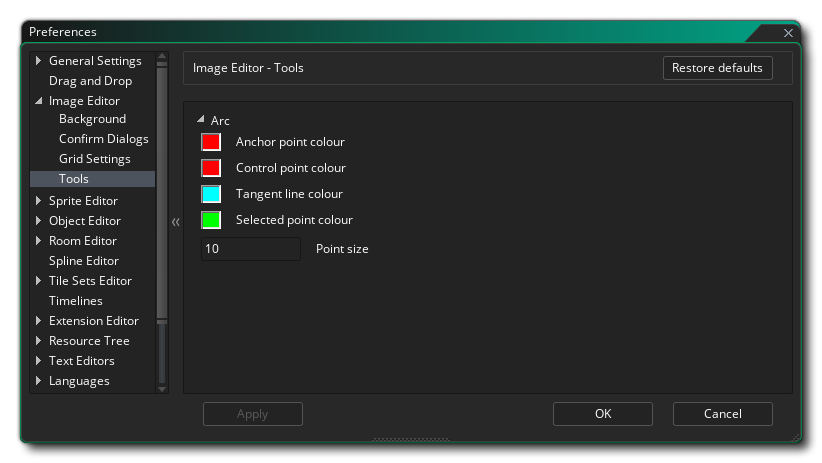
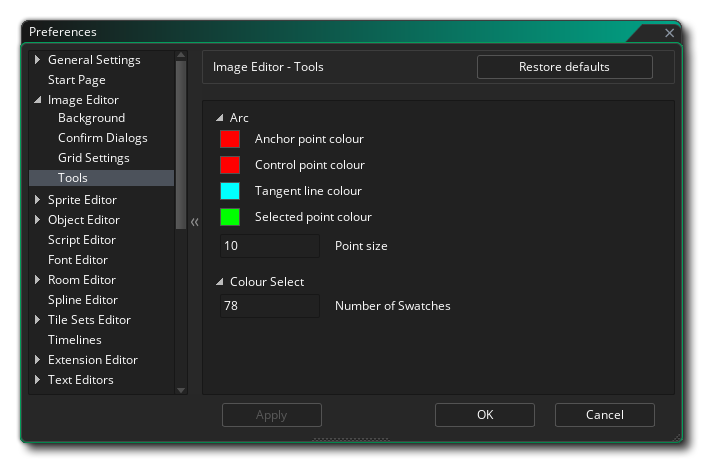
docs(general): Manual: Image Editor Preferences - Tool section missing details for color select section YoYoGames/GameMaker-Bugs#8534
Updated the screenshot and added the option

diff --git a/Manual/contents/The_Asset_Editors/Image_Editor.htm b/Manual/contents/The_Asset_Editors/Image_Editor.htm
@@ -17,7 +17,7 @@
   <h1><span data-field="title" data-format="default">The Image Editor</span></h1>
   <p><img alt="The Image Editor" class="center" src="../assets/Images/Asset_Editors/Editor_Images.png" style="cursor: nesw-resize;" />The I<strong>mage Editor </strong>is where you can create your own <a class="glossterm" data-glossterm="sprites" href="#">sprites</a> or edit those you have imported or created previously. If you have used any other image tools then this should be familiar to you but there are a few things to note when using the <span data-keyref="GameMaker Name">GameMaker</span> Image Editor which may not be immediately apparent:</p>
   <ul class="colour">
-    <li>When you create multiple frames, you can draw to them as they animate! So, if you press the play button<img alt="Play Icon" class="icon" height="24" src="../assets/Images/Icons/Icon_ImagePlay.png" width="46" /> on the <strong>Frame Control</strong> bar, and then select a brush and start to draw in the editor window, you&#39;ll see that the frames will animate in the editor and what you draw will be added to the corresponding frame in that moment. You can experiment with different frame rates until you get something you like, but once you&#39;ve got the hang of how this works you&#39;ll be creating dynamic sprites and effects in no time.</li>
+    <li>When you create multiple frames, you can draw to them as they animate! So, if you press the Play button<img alt="Play Icon" class="icon" height="24" src="../assets/Images/Icons/Icon_ImagePlay.png" width="46" /> on the <strong>Frame Control</strong> bar, and then select a brush and start to draw in the editor window, you&#39;ll see that the frames will animate in the editor and what you draw will be added to the corresponding frame in that moment. You can experiment with different frame rates until you get something you like, but once you&#39;ve got the hang of how this works you&#39;ll be creating dynamic sprites and effects in no time.</li>
     <li>You can pull the Image Editor tab off of the main workspace window into its own window. This can be handy when using multiple monitors, for example.</li>
     <li>When you use the <em>Copy </em>functions to, for example, copy a selection of an image, then the selection copied gets added to your <strong>brush list</strong>. This means that you can select a part of an image and then use it in the rest of the paint tools to draw lines, polygons or just paint freely. The brush can be scaled and blended with a colour too. Note that the <em>Paste </em>functionality is not intended for use internally within the editor as anything you copy is added to the brush list and so can be selected for &quot;pasting&quot; that way. Instead paste is simply for you to capture something from an external program and paste it into the Image Editor.</li>
     <li>You can have multiple layers for each sprite thanks to the handy <strong>layer editor</strong>. These layers can ordered and even placed in folders to make creating more complex images easier.</li>
@@ -190,8 +190,8 @@
   </div>
   <p><a class="dropspot" data-rhwidget="DropSpot" data-target="drop-down8" href="#">Layer Editor</a></p>
   <div class="droptext" data-targetname="drop-down8">
-    <p class="dropspot">You can create <strong>layers </strong>in the image editor for different parts of your image, and these layers can be manipulated and drawn to using the various brushes and tools. To create a new layer, simply click the <img alt="Add Layer Icon" class="icon" height="24" src="../assets/Images/Icons/Icon_Image_Add.png" width="24" /> icon, and to remove it again the <img alt="Remove Layer Icon" class="icon" height="24" src="../assets/Images/Icons/Icon_Image_Remove.png" width="24" /> icon. Layers can also be ordered by clicking <img alt="LMB Icon" class="icon" height="24" src="../assets/Images/Icons/Icon_LMB.png" width="21" /> on a layer and then dragging the layer up or down to the position you require, and you can further organise the layers by creating folders using the <img alt="Add Layer Folder Icon" class="icon" height="24" src="../assets/Images/Icons/Icon_Image_Folder.png" width="24" /> button and then dragging layers into them.</p>
-    <p class="dropspot">If you double click <img alt="LMB Icon" class="icon" height="24" src="../assets/Images/Icons/Icon_LMB.png" width="21" /> on a layer (or use <img alt="RMB Icon" class="icon" height="24" src="../assets/Images/Icons/Icon_RMB.png" width="21" /> and select <strong>Edit Layer Properties</strong>) you&#39;ll get access to the Layer Properties window:</p>
+    <p class="dropspot">You can create <strong>layers </strong>in the Image Editor for different parts of your image, and these layers can be manipulated and drawn to using the various brushes and tools. To create a new layer, simply click the <img alt="Add Layer Icon" class="icon" height="24" src="../assets/Images/Icons/Icon_Image_Add.png" width="24" /> icon, and to remove it again the <img alt="Remove Layer Icon" class="icon" height="24" src="../assets/Images/Icons/Icon_Image_Remove.png" width="24" /> icon. Layers can also be ordered by clicking <img alt="LMB Icon" class="icon" height="24" src="../assets/Images/Icons/Icon_LMB.png" width="21" /> on a layer and then dragging the layer up or down to the position you require, and you can further organise the layers by creating folders using the <img alt="Add Layer Folder Icon" class="icon" height="24" src="../assets/Images/Icons/Icon_Image_Folder.png" width="24" /> button and then dragging layers into them.</p>
+    <p class="dropspot">If you double-click <img alt="LMB Icon" class="icon" height="24" src="../assets/Images/Icons/Icon_LMB.png" width="21" /> on a layer (or use <img alt="RMB Icon" class="icon" height="24" src="../assets/Images/Icons/Icon_RMB.png" width="21" /> and select <strong>Edit Layer Properties</strong>) you&#39;ll get access to the Layer Properties window:</p>
     <p class="dropspot"><img alt="Image Editor Layer Properties" class="center" src="../assets/Images/Asset_Editors/Editor_LayerProperties.png" />Here you can name the layer as well as set the blend mode (the way that it should be &quot;mixed&quot; with the layers beneath), choosing from <em>normal</em>, <em>additive</em>, <em>subtractive </em>or <em>multiply </em>blends. Finally you can set the opacity (transparency) of the layer with a slider, but note that this is cumulative with the actual alpha value of individual pixels - for example, if you have pixels that are 50% opaque and set the layer opacity to 50%, the final pixels will be drawn at 25% opacity.</p>
     <p class="dropspot">You can also paste from your clipboard (<img alt="Control Icon" class="icon" height="20" src="../assets/Images/Icons/Icon_Ctrl.png" width="55" /> / <img alt="CMD Icon" class="icon" height="20" src="../assets/Images/Icons/Icon_Cmd.png" width="55" /> + &quot;<span class="inline">V</span>&quot;) to create a new layer, which can be enabled/disabled in the <a data-xref="{title}" href="../Setting_Up_And_Version_Information/IDE_Preferences/Image_Editor_Preferences.htm">Image Editor Preferences</a> (see &quot;<strong>Image Selection Copy/Paste</strong>&quot;).</p>
   </div>
@@ -241,7 +241,7 @@
   <div class="droptext" data-targetname="drop-down10">
     <p class="dropspot"><img alt="Image Editor Views Menu" class="center" src="../assets/Images/Asset_Editors/Editor_MenuView.png" />The View menu has the following options:</p>
     <ul class="dropspotlist">
-      <li class="dropspot"><strong>1:1</strong> - Scale the image to be 1:1 with the resolution (ie: actual size) and center it in the image edit window.</li>
+      <li class="dropspot"><strong>1:1</strong> - Scale the image to be 1:1 with the resolution (i.e.: actual size) and center it in the image edit window.</li>
       <li class="dropspot"><strong>Fit Screen</strong> - Scale the image to fill the image edit window.</li>
       <li class="dropspot"><strong>Show grid</strong> - Toggle the pixel grid. This is the same as the grid button found in the Canvas Controls (explained further up this page).</li>
       <li class="dropspot"><strong>Onion Skin Settings</strong> - Change the onion skin settings. This will open the following window where you can set the frames shown by the onion skin button, as well as the opacity and colour of the skinned frames.<br />

diff --git a/Manual/contents/Setting_Up_And_Version_Information/IDE_Preferences/Image_Editor_Preferences.htm b/Manual/contents/Setting_Up_And_Version_Information/IDE_Preferences/Image_Editor_Preferences.htm
@@ -4,7 +4,7 @@
 <head>
   <meta http-equiv="Content-Type" content="text/html; charset=utf-8" />
   <title>Image Editor Preferences</title>
-  <meta name="generator" content="Adobe RoboHelp 2020" />
+  <meta name="generator" content="Adobe RoboHelp 2022" />
   <link rel="stylesheet" href="../../assets/css/default.css" type="text/css" />
   <script src="../../assets/scripts/main_script.js" type="module"></script>
   <meta name="rh-authors" content="Mark Alexander" />
@@ -119,33 +119,16 @@
   </div>
   <p><a class="dropspot" data-rhwidget="DropSpot" data-target="drop-down3" href="#">Tools</a></p>
   <div class="droptext" data-targetname="drop-down3">
-    <p class="dropspot">
-      <img data-cke-saved-src="../../assets/Images/Setup_And_Version/Preferences/ImageEditor_Tools_Prefs.png" src="../../assets/Images/Setup_And_Version/Preferences/ImageEditor_Tools_Prefs.png" class="center" />Here you can set the ddifferent options
-      for how some of the drawing tools operate and are shown.
-      <br /><br />
-    </p>
-    <p class="dropspot">If you are using the
-      <strong>Arc Tool</strong>
-      <img data-cke-saved-src="../../assets/Images/Setup_And_Version/Preferences/Prefs_Arctool_Icon.png" src="../../assets/Images/Setup_And_Version/Preferences/Prefs_Arctool_Icon.png" class="icon" alt="Arc Tool Icon" width="32" height="32" /> then here
-      you can set the different colours used to draw the node properties:
-    </p>
+    <p class="dropspot"><img class="center" src="../../assets/Images/Setup_And_Version/Preferences/ImageEditor_Tools_Prefs.png" />Here you can set the ddifferent options for how some of the drawing tools operate and are shown.<br />
+       </p>
+    <p class="dropspot">If you are using the <strong>Arc Tool</strong> <img alt="Arc Tool Icon" class="icon" height="32" src="../../assets/Images/Setup_And_Version/Preferences/Prefs_Arctool_Icon.png" width="32" /> then here you can set the different colours used to draw the node properties:</p>
     <ul class="dropspotlist">
-      <li>
-        <strong>Anchor point colour</strong>: Set the colour for the different anchor points on the spline/arc. Default is (
-        <a data-glossterm="ARGB" class="glossterm" href="#">ARGB</a>) #FFFF0000.
-      </li>
-      <li>
-        <strong>Control point colour</strong>: Set the colour for each of the control point &quot;handles&quot; on an anchor point. Default is (ARGB) #FFFF0000.
-      </li>
-      <li>
-        <strong>Tangent line colour</strong>: Set the colour for the lines linking the control points to the anchors. Default is (ARGB) #FF00FFFF.
-      </li>
-      <li>
-        <strong>Selected point colour</strong>: Set the colour to be used for any selected anchor points on the spline/arc. Default is (ARGB) #FF00FF00.
-      </li>
-      <li>
-        <strong>Point size</strong>: Set the size of the different anchor points and control points to be used. Default is 10px.
-      </li>
+      <li><strong>Anchor point colour</strong>: Set the colour for the different anchor points on the spline/arc. Default is ( <a class="glossterm" data-glossterm="ARGB" href="#">ARGB</a>) #FFFF0000.</li>
+      <li><strong>Control point colour</strong>: Set the colour for each of the control point &quot;handles&quot; on an anchor point. Default is (ARGB) #FFFF0000.</li>
+      <li><strong>Tangent line colour</strong>: Set the colour for the lines linking the control points to the anchors. Default is (ARGB) #FF00FFFF.</li>
+      <li><strong>Selected point colour</strong>: Set the colour to be used for any selected anchor points on the spline/arc. Default is (ARGB) #FF00FF00.</li>
+      <li><strong>Point size</strong>: Set the size of the different anchor points and control points to be used. Default is 10px.</li>
+      <li><strong>Number of Swatches</strong>: Set the number of swatches used in the colour picker section. This number can range from 78 to 256. Default is 78.</li>
     </ul>
   </div>
   <p> </p>
@@ -158,7 +141,7 @@
         <div style="float:right">Next: <a href="Sprite_Editor_Preferences.htm">Sprite Editor Preferences</a></div>
       </div>
     </div>
-    <h5><span data-keyref="Copyright Notice">© Copyright YoYo Games Ltd. 2022 All Rights Reserved</span></h5>
+    <h5><span data-keyref="Copyright Notice">© Copyright YoYo Games Ltd. 2024 All Rights Reserved</span></h5>
   </div>
   <!-- KEYWORDS
 Preferences - Image Editor
